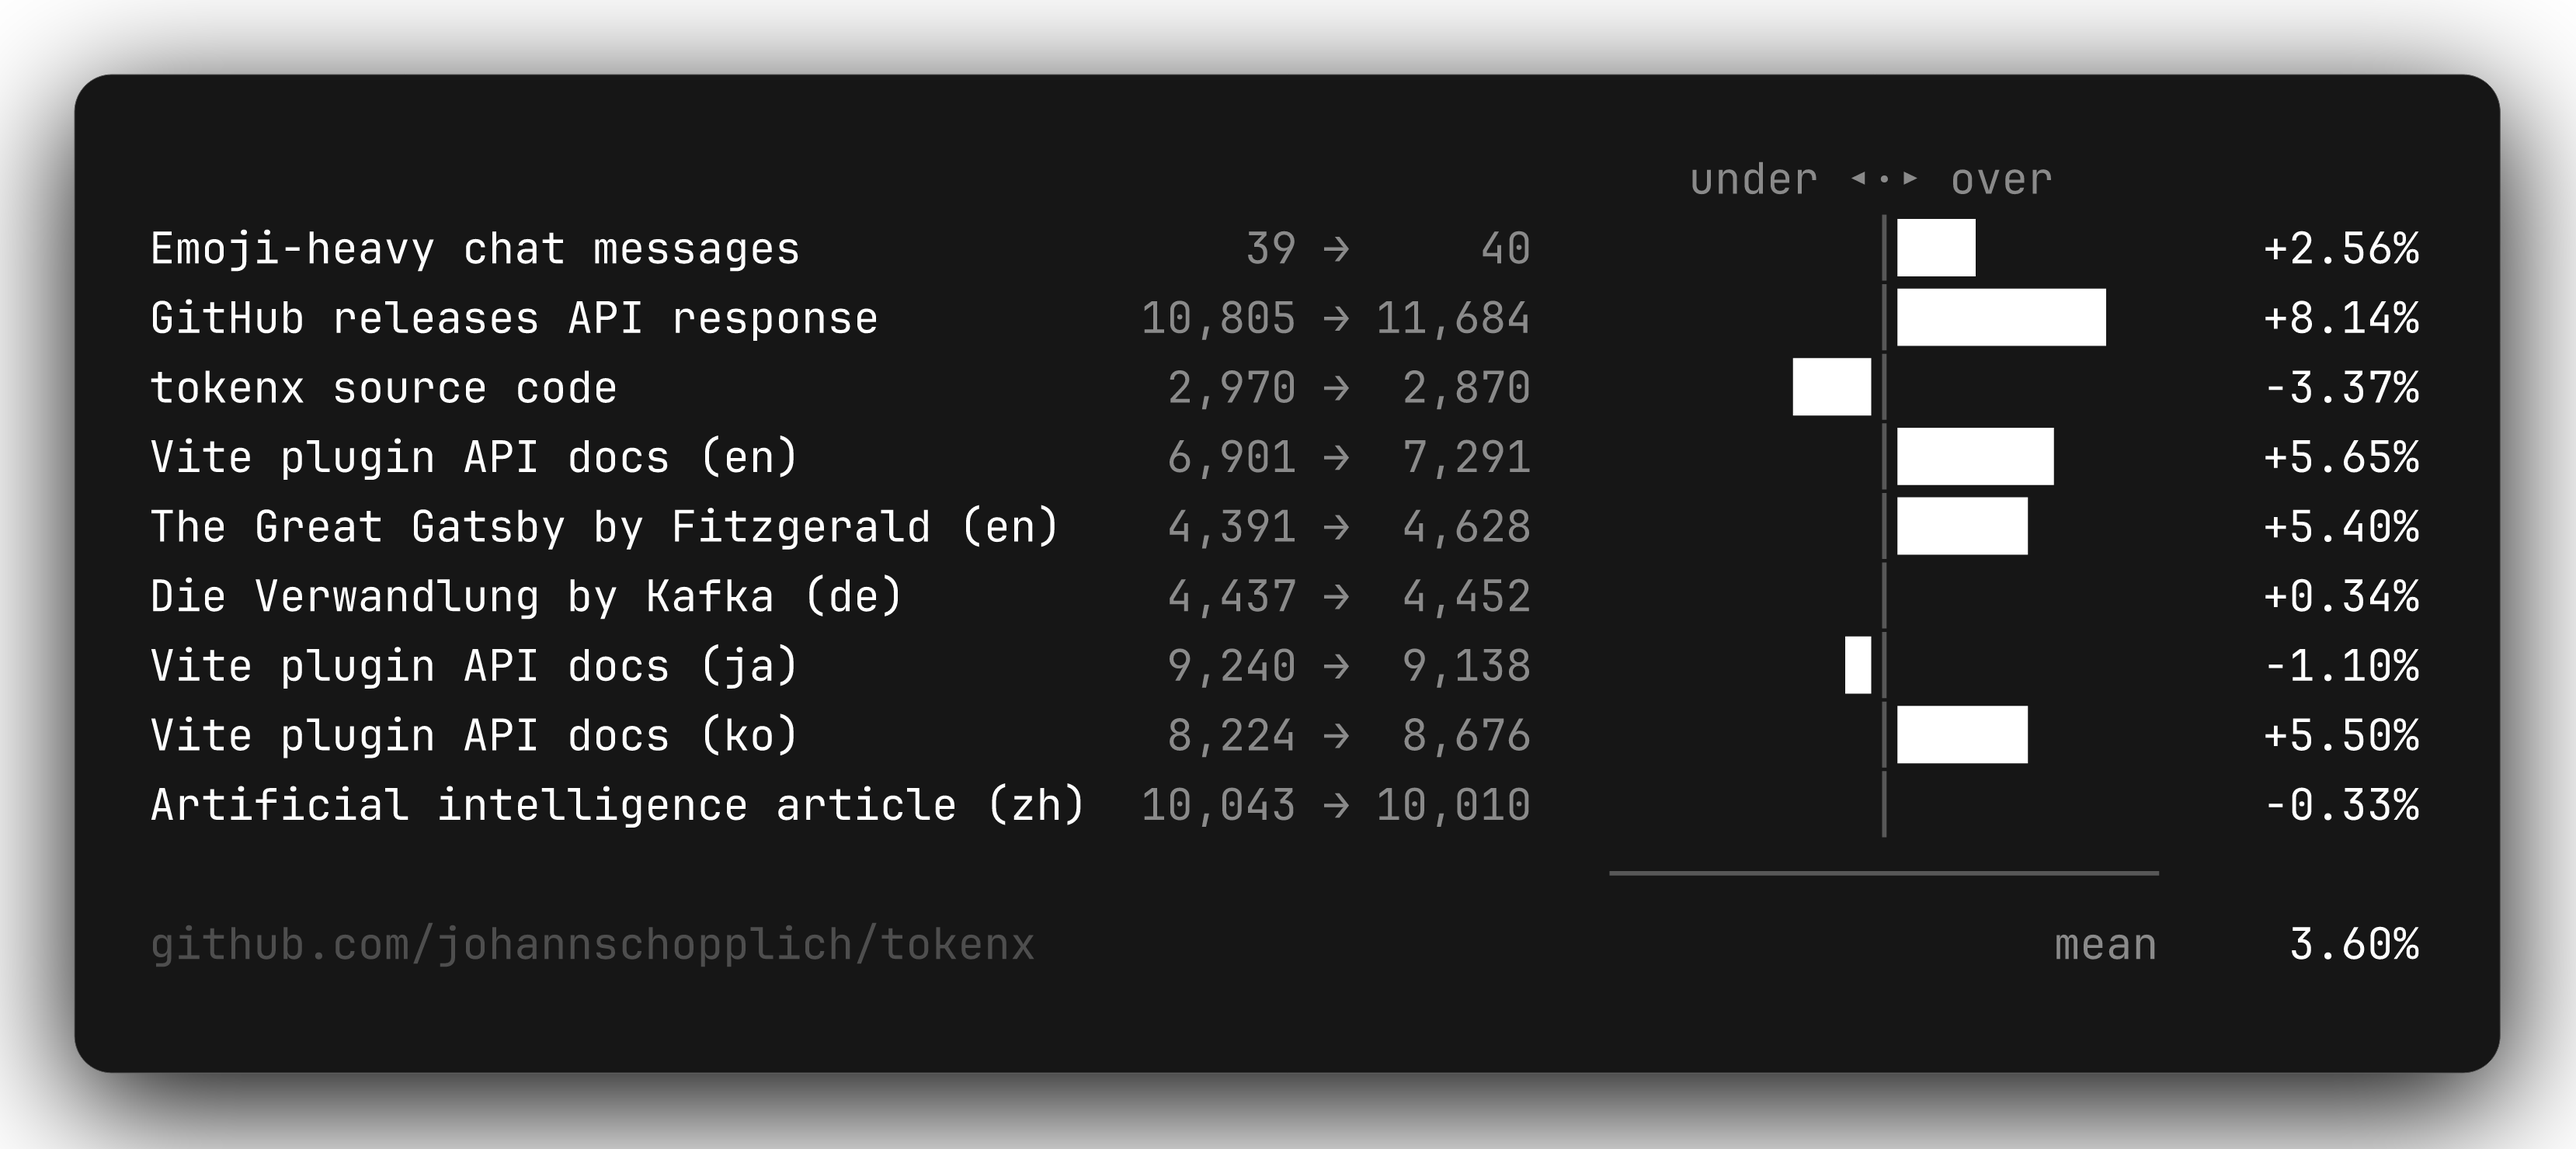
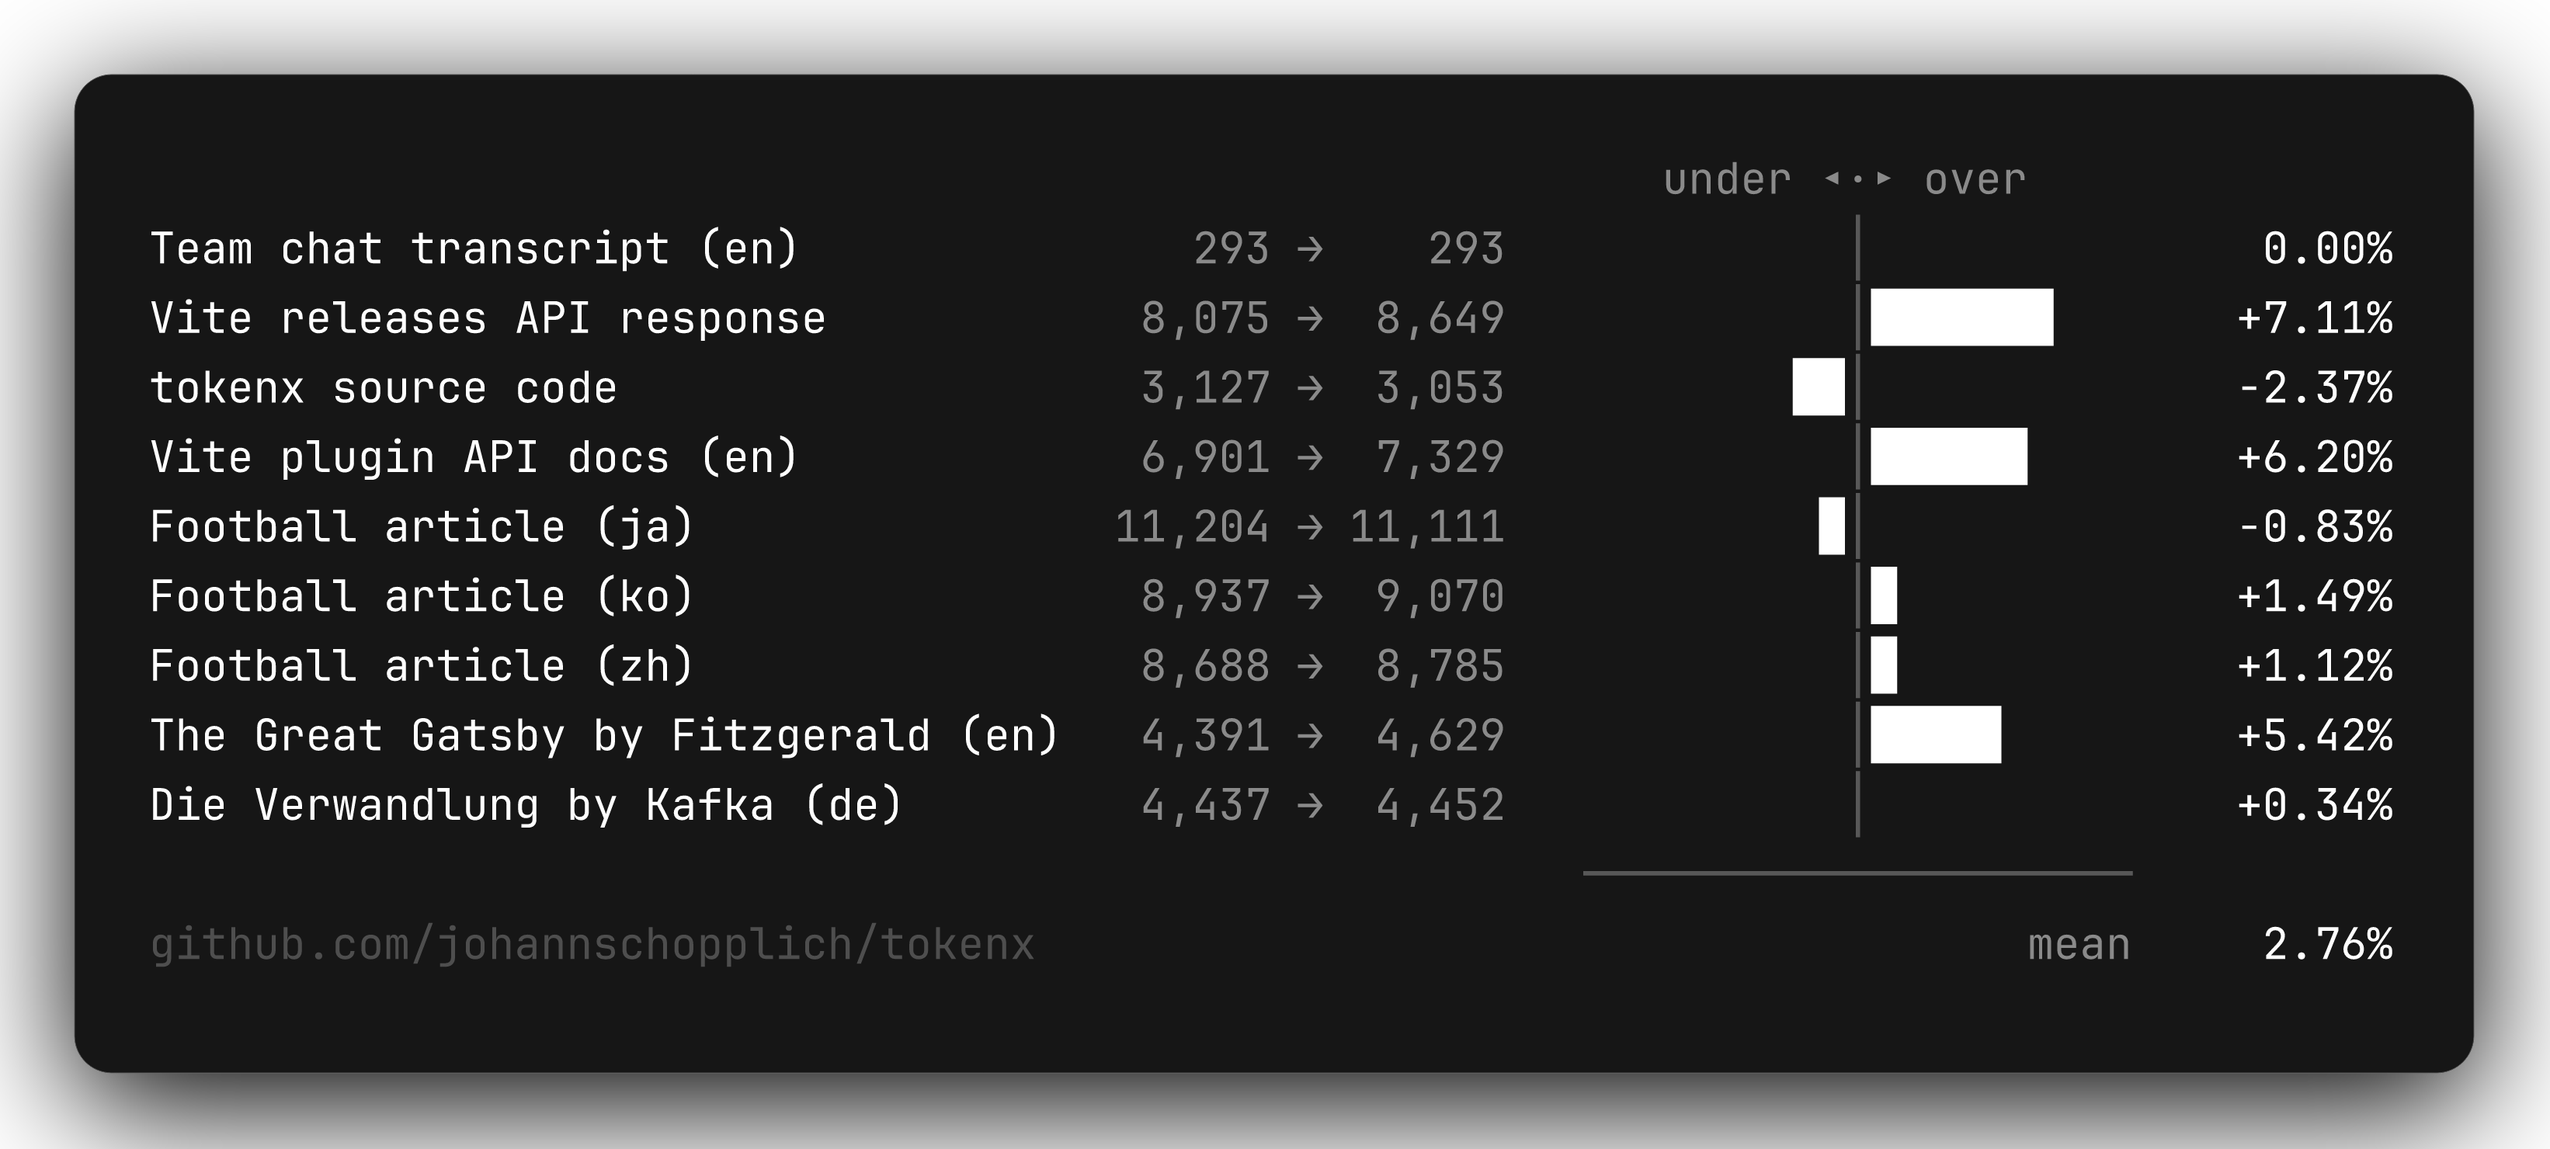
docs: state the accuracy bounds as enforced percentages

diff --git a/test/fixtures/texts/README.md b/test/fixtures/texts/README.md
@@ -1,21 +1,32 @@
 # Corpus texts
 
-Static excerpts used as the long-form sample corpus for the benchmarks and the accuracy bounds. They are checked in as-is and are not regenerated by any script.
+Static excerpts used as the sample corpus for the benchmarks and the accuracy bounds. They are checked in as-is and are not regenerated by any script.
 
-The corpus is meant to represent what people actually measure with tokenx: documentation pages, API responses and prose, across scripts. Registers are chosen deliberately – contemporary Chinese rather than classical, because classical Chinese merges at roughly one character per token and would flatter the estimate without representing anyone's traffic.
+The corpus is meant to represent what people actually measure with tokenx: chat logs, API responses, documentation pages and prose, across scripts. Registers are chosen deliberately – contemporary simplified Chinese rather than traditional or classical, because those merge differently and would move the figure without representing anyone's traffic.
+
+Subject matter moves the estimate by more than the script does, which is why the CJK entries are one topic across three languages rather than one page translated three ways: a translated page carries the source language's code blocks and product names into every version, and those price identically in all three.
 
 Each prose file was cleaned once: source boilerplate and markup removed, hard-wrapped lines rejoined into whole paragraphs, one paragraph per line separated by a blank line. Latin-script wraps were rejoined with a space, CJK wraps with nothing. The Markdown and JSON files are kept verbatim, because the raw form is what tooling feeds through an estimator.
 
 | File | Source | Licence |
 | --- | --- | --- |
+| `chat-transcript-en.txt` | Written for this repository – a multi-turn team chat, one message per line | MIT, this repository |
+| `github-releases-api.txt` | `GET /repos/vitejs/vite/releases?per_page=10`, captured from the GitHub REST API | Release notes by Vite contributors, MIT |
+| `vite-plugin-api-en.txt` | [`docs/guide/api-plugin.md`](https://github.com/vitejs/vite/blob/main/docs/guide/api-plugin.md), `vitejs/vite` | MIT, VoidZero Inc. and Vite contributors |
+| `football-ja.txt` | [サッカー](https://ja.wikipedia.org/wiki/サッカー), Japanese Wikipedia – prose paragraphs of the article body | CC BY-SA 4.0, Wikipedia contributors |
+| `football-ko.txt` | [축구](https://ko.wikipedia.org/wiki/축구), Korean Wikipedia – prose paragraphs of the article body | CC BY-SA 4.0, Wikipedia contributors |
+| `football-zh.txt` | [足球](https://zh.wikipedia.org/wiki/足球), Chinese Wikipedia – prose paragraphs of the article body | CC BY-SA 4.0, Wikipedia contributors |
 | `great-gatsby-en.txt` | F. Scott Fitzgerald, _The Great Gatsby_ (1925) – opening of chapter I, [Project Gutenberg 64317](https://www.gutenberg.org/ebooks/64317) | Public domain |
 | `die-verwandlung-de.txt` | Franz Kafka, _Die Verwandlung_ (1915) – opening of part I, [Project Gutenberg 22367](https://www.gutenberg.org/ebooks/22367) | Public domain |
-| `artificial-intelligence-zh.txt` | [人工智能](https://zh.wikipedia.org/wiki/人工智能), Chinese Wikipedia – prose paragraphs of the article body, requested as `zh-hans` | CC BY-SA 4.0, Wikipedia contributors |
-| `vite-plugin-api-en.txt` | [`docs/guide/api-plugin.md`](https://github.com/vitejs/vite/blob/main/docs/guide/api-plugin.md), `vitejs/vite` | MIT, VoidZero Inc. and Vite contributors |
-| `vite-plugin-api-ja.txt` | [`guide/api-plugin.md`](https://github.com/vitejs/docs-ja/blob/main/guide/api-plugin.md), `vitejs/docs-ja` | MIT, VoidZero Inc. and Vite contributors |
-| `vite-plugin-api-ko.txt` | [`guide/api-plugin.md`](https://github.com/vitejs/docs-ko/blob/main/guide/api-plugin.md), `vitejs/docs-ko` | MIT, VoidZero Inc. and Vite contributors |
-| `github-releases-api.txt` | `GET /repos/vuejs/core/releases?per_page=10`, captured from the GitHub REST API | Release notes by Vue contributors, MIT |
 
-The three Vite files are the same page in three languages, so a deviation gap between them isolates the script rather than the subject matter.
+The benchmark also measures `src/index.ts`, `src/segments.ts` and `src/types.ts` as a source-code sample, so no file is checked in for that row.
 
-Each file stays under the licence of its source; the MIT licence of this repository covers the code, not these texts. `artificial-intelligence-zh.txt` is the only share-alike text: reusing it elsewhere carries the CC BY-SA 4.0 attribution and share-alike obligations listed above.
+`../holdout/` holds a separate set of texts that no ratio was ever fitted against – see `test/holdout.test.ts`. They carry their own licences:
+
+| File | Source | Licence |
+| --- | --- | --- |
+| `candide-fr.txt` | Voltaire, _Candide, ou l'optimisme_ (1759) – opening chapters, [Project Gutenberg 4650](https://www.gutenberg.org/ebooks/4650) | Public domain |
+| `node-path-api-en.txt` | [`doc/api/path.md`](https://github.com/nodejs/node/blob/main/doc/api/path.md), `nodejs/node` | MIT, Node.js contributors |
+| `library-ru.txt` | [Библиотека](https://ru.wikipedia.org/wiki/Библиотека), Russian Wikipedia – prose paragraphs of the article body | CC BY-SA 4.0, Wikipedia contributors |
+
+Each file stays under the licence of its source; the MIT licence of this repository covers the code, not these texts. The Wikipedia extracts are the share-alike texts: reusing them elsewhere carries the CC BY-SA 4.0 attribution and share-alike obligations listed above.

diff --git a/README.md b/README.md
@@ -6,7 +6,7 @@ Estimates are calibrated against OpenAI's `o200k_base` encoding – the tokenize
 
 ## Features
 
-- ⚡ **Within 10% of the real count** on every sample in the benchmark below
+- ⚡ **95%+ average accuracy**, and no single sample below 90% – both bounds enforced in CI
 - 📦 **Just 2kB** bundle size with zero dependencies
 - 🌍 Multi-language support with configurable language rules
 - 🗣 Built-in rules for accented scripts (German, French, Spanish, Slavic), Cyrillic, and Greek
@@ -23,29 +23,29 @@ The following chart shows how close the estimates come to actual GPT token count
 Bars grow left when tokenx underestimates and right when it overestimates; the axis spans the ±10% per-sample deviation bound enforced in CI.
 
 ```
-                                                           under ◂·▸ over
-Emoji-heavy chat messages                 39 →     40             │███           +2.56%
-GitHub releases API response          10,805 → 11,684             │████████      +8.14%
-tokenx source code                     2,970 →  2,870          ███│              -3.37%
-Vite plugin API docs (en)              6,901 →  7,291             │██████        +5.65%
-The Great Gatsby by Fitzgerald (en)    4,391 →  4,628             │█████         +5.40%
-Die Verwandlung by Kafka (de)          4,437 →  4,452             │              +0.34%
-Vite plugin API docs (ja)              9,240 →  9,138            █│              -1.10%
-Vite plugin API docs (ko)              8,224 →  8,676             │█████         +5.50%
-Artificial intelligence article (zh)  10,043 → 10,010             │              -0.33%
-                                                        ─────────────────────
-                                                                         mean     3.60%
+                                                          under ◂·▸ over
+Team chat transcript (en)               293 →    293             │               0.00%
+Vite releases API response            8,075 →  8,649             │███████       +7.11%
+tokenx source code                    3,127 →  3,053           ██│              -2.37%
+Vite plugin API docs (en)             6,901 →  7,329             │██████        +6.20%
+Football article (ja)                11,204 → 11,111            █│              -0.83%
+Football article (ko)                 8,937 →  9,070             │█             +1.49%
+Football article (zh)                 8,688 →  8,785             │█             +1.12%
+The Great Gatsby by Fitzgerald (en)   4,391 →  4,629             │█████         +5.42%
+Die Verwandlung by Kafka (de)         4,437 →  4,452             │              +0.34%
+                                                       ─────────────────────
+                                                                        mean     2.76%
 ```
 
 <!-- /automd -->
 
-Deviation tracks vocabulary rather than length: a 300-character excerpt deviates about as much as the whole book it came from. Read the figures above as a range across registers, not a bound on any single input.
+Deviation tracks vocabulary rather than length: a 300-character excerpt deviates about as much as the whole book it came from. Read the figures above as a range across registers, not a bound on any single input. Both bounds are checked a second time against a holdout corpus that no ratio was ever fitted against, so the numbers above measure accuracy rather than fit.
 
 Three cases are knowingly outside that range, all of them underestimates:
 
-- **High-entropy strings** – base64 payloads, hashes, and file digests. An npm registry document, dense with `sha512` integrity hashes, lands near -20%. Pricing them properly would cost every caller runtime for a case that ordinary traffic rarely carries, so it is left uncorrected.
-- **Traditional and classical Chinese.** The hanzi rate is calibrated on contemporary simplified Chinese, which `o200k_base` merges far more aggressively. Traditional text runs about -20%, classical text about -40%.
-- **Scripts without a built-in rule** – Arabic and Hindi fall through to the default ratio at roughly -27%, Hebrew at -53%, Thai at -59%. Supply a `languageConfig` if you measure them.
+- **High-entropy strings** – base64 payloads, hashes, and file digests. An npm registry document, dense with `sha512` integrity hashes, lands near -33%. Pricing them properly would cost every caller runtime for a case that ordinary traffic rarely carries, so it is left uncorrected.
+- **Traditional and classical Chinese.** The hanzi rate is calibrated on contemporary simplified Chinese, which `o200k_base` merges more aggressively than either. Traditional text runs about -10%, classical text about -16%.
+- **Scripts without a built-in rule** – Arabic and Hindi fall through to the default ratio at roughly -30%, Hebrew at -46%, Thai at -62%. Supply a `languageConfig` if you measure them.
 
 If you need a safety margin, add it yourself rather than assuming one is built in: the estimate is calibrated to sit on the real count, not above it.
 

diff --git a/docs/bench.md b/docs/bench.md
@@ -1,16 +1,16 @@
 Bars grow left when tokenx underestimates and right when it overestimates; the axis spans the ±10% per-sample deviation bound enforced in CI.
 
 ```
-                                                           under ◂·▸ over
-Emoji-heavy chat messages                 39 →     40             │███           +2.56%
-GitHub releases API response          10,805 → 11,684             │████████      +8.14%
-tokenx source code                     2,970 →  2,870          ███│              -3.37%
-Vite plugin API docs (en)              6,901 →  7,291             │██████        +5.65%
-The Great Gatsby by Fitzgerald (en)    4,391 →  4,628             │█████         +5.40%
-Die Verwandlung by Kafka (de)          4,437 →  4,452             │              +0.34%
-Vite plugin API docs (ja)              9,240 →  9,138            █│              -1.10%
-Vite plugin API docs (ko)              8,224 →  8,676             │█████         +5.50%
-Artificial intelligence article (zh)  10,043 → 10,010             │              -0.33%
-                                                        ─────────────────────
-                                                                         mean     3.60%
+                                                          under ◂·▸ over
+Team chat transcript (en)               293 →    293             │               0.00%
+Vite releases API response            8,075 →  8,649             │███████       +7.11%
+tokenx source code                    3,127 →  3,053           ██│              -2.37%
+Vite plugin API docs (en)             6,901 →  7,329             │██████        +6.20%
+Football article (ja)                11,204 → 11,111            █│              -0.83%
+Football article (ko)                 8,937 →  9,070             │█             +1.49%
+Football article (zh)                 8,688 →  8,785             │█             +1.12%
+The Great Gatsby by Fitzgerald (en)   4,391 →  4,629             │█████         +5.42%
+Die Verwandlung by Kafka (de)         4,437 →  4,452             │              +0.34%
+                                                       ─────────────────────
+                                                                        mean     2.76%
 ```

diff --git a/CONTEXT.md b/CONTEXT.md
@@ -20,10 +20,18 @@ The relative difference between an estimated count and the reference tokenizer's
 _Avoid_: accuracy percentage, error rate
 
 **Sample corpus**:
-The fixed set of long-form texts whose Deviation is measured against the reference tokenizer – the single source for both the published benchmarks and the enforced accuracy bounds.
+The fixed set of texts whose Deviation is measured against the reference tokenizer – the single source for both the published benchmarks and the enforced accuracy bounds.
 
 **Heuristic bucket**:
-A group of short and medium-length inputs that all exercise one estimation rule, recording where that rule's calibration currently sits. Distinct from the Sample corpus, which measures published accuracy on long-form text.
+A group of sentence- and paragraph-length inputs sharing one script or Register, recording where a rule's calibration currently sits.
+
+**Holdout corpus**:
+Texts deliberately kept out of every calibration decision, measured only to check that accuracy on the Sample corpus generalizes. Tuning anything against them retires them.
+_Avoid_: validation set, test corpus
+
+**Register**:
+The variety of language a text is written in – everyday prose, technical documentation, machine-generated payload. Moves Deviation more than the script does.
+_Avoid_: genre, domain, tone
 
 **Language config**:
 A rule pairing a script-detection pattern with that script's average characters per token. Custom configs take precedence over all built-in heuristics.
